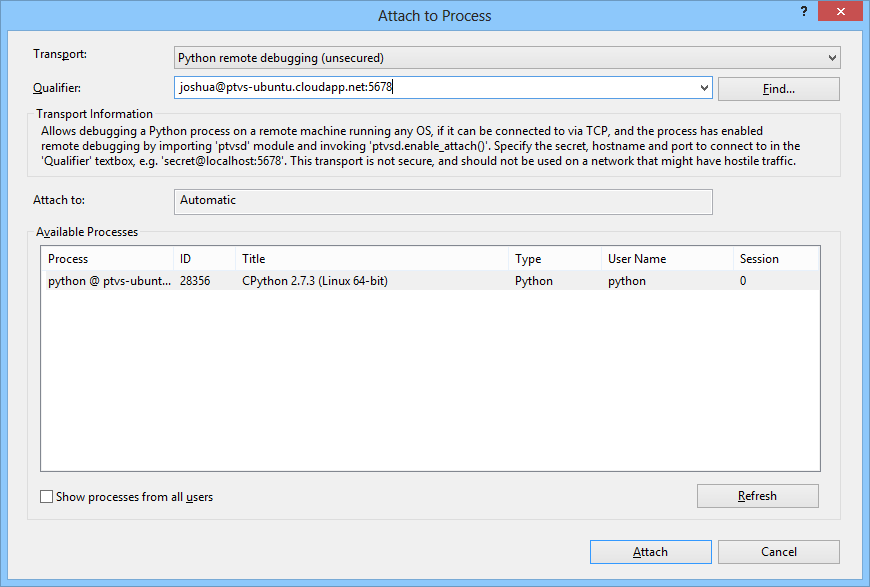
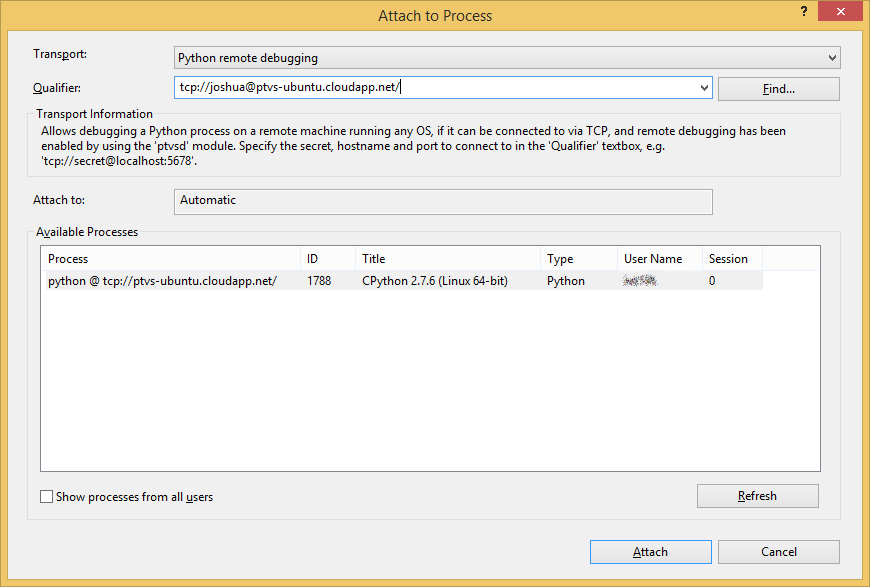
Add documentation for Azure remote debugging.
Update documentation for regular remote debugging.

diff --git a/Python/Docs/User/Features Azure Remote Debugging.md b/Python/Docs/User/Features Azure Remote Debugging.md
@@ -1,0 +1,50 @@
+Remote Debugging on Microsoft Azure
+===================================
+
+Python Tools has special support for remote debugging of code running on Microsoft Azure Web Sites. Unlike simple remote debugging, the target machine is not directly accessible over TCP in this scenario, but PTVS comes with a WebSocket proxy for the debugging protocol that exposes the debugger protocol via HTTP. When you create a new Microsoft Azure project, the proxy is fully configured for you in an automatically generated web.debug.config, and will be enabled on the web site if you publish your project in the "Debug" configuration by following [wiki:"these steps" Features%20Web%20Project#publishing-to-microsoft-azure].
+
+Since the Azure remote debugging uses web sockets, it must be enabled for your web site in the management portal. This setting can be found on the web site management page, on the "Configure" tab - don't forget to click "Save" after changing it:
+
+![Enabling web sockets in Azure portal](Images/AzureRemoteDebuggingEnableWebSockets.png)
+
+Once your project is properly deployed and web sockets are enabled, you can attach to the web site from Server Explorer. If you do not have the Server Explorer window open, you can open it via <span class="menu">View</span> → <span class="menu">Server Explorer</span>. Then, locate your web site under Microsoft Azure → Web Sites, and right-click on it. If it is running, and your project has been deployed to it using the Debug configuration, you should see the "Attach Debugger (Python)" command in the context menu:
+
+![Attaching to Azure Web Site](Images/AzureRemoteDebuggingWebSiteAttach.png)
+
+Note that on Visual Studio Professional and above, you will see two "Attach Debugger" commands - the default one with no qualifiers is used to debug .NET applications running under IIS, and is only useful if you co-host .NET code alongside your Python app. To attach to your Python app, you need to use the "Attach Debugger (Python)" command. If you do not see that command in the context menu for your site (i.e. you only see "Attach Debugger", or you see neither), then one of the following applies:
+
+* You do not have Visual Studio 2013:
+ * Server Explorer functionality is not available on your version of Visual Studio. You will have to use attach via Attach to Process dialog as described [below](#attaching-without-server-explorer).
+* You do not have Visual Studio 2013 Update 2 or later installed:
+ * Download and install [Update 2](http://www.microsoft.com/en-us/download/details.aspx?id=42023). 
+* The project is not opened in Solution Explorer:
+ * Open the project that you're trying to debug via File → Open → Project/Solution.
+* The web site is not running (i.e. stopped - this can be seen from its icon):
+ * Start the web site by right-clicking on it in Server Explorer and selecting "Start Web Site" in the context menu.
+* The project was not deployed in the "Debug" configuration:
+ * Re-deploy the project in "Debug" configuration as described [wiki:"here" Features%20Web%20Project#publishing-to-microsoft-azure].
+* web.debug.config was modified to disable the debug proxy.
+ * Restore the original web.debug.config. The easiest way to do so is to delete it, which will cause it to be recreated with default settings on the next publish.
+
+If the attach has completed successfully, Visual Studio should switch to debug window profile, and the title bar should say "(Running)" after the opened project name. You should also be seeing the debugger toolbar, which indicates the process being debugged - for a Microsoft Azure web site, it should include a corresponding wss:// URI:
+
+![Debugging Azure Web Site](Images/AzureRemoteDebuggingAttached.png)
+
+Once attached, the debugging experience is mostly the same as for regular remote debugging. However, there are some constraints placed by the execution environment. In particular, IIS web server that handles incoming requests and delegates them to Python code via FastCGI has a timeout for request handling, which defaults to 90 seconds. If request handling takes longer than that (for example, because of the process being paused at a breakpoint), IIS will terminate the process, which will immediately end your debugging session. 
+
+
+## Attaching without Server Explorer
+
+It is also possible to attach to a Microsoft Azure web site directly from the Attach to Process dialog, similar to regular remote debugging. A brief guide on how to do so can be found on the WebSocket proxy info page, which can be found on your web site under /ptvsd - this can also be used to verify that the proxy is up and running:
+
+![Azure remote debugging proxy information page](Images/AzureRemoteDebuggingProxyInfoPage.png)
+
+First of all, you will need to determine the auto-generated ptvsd secret for your website - it is defined in web.debug.config in your project, and is regenerated every time the project is published (unless the comment at the top of web.debug.config is removed to suppress its regeneration). You may need to enable "Show All Files" in Solution Explorer to locate web.debug.config, if you haven't previously included it into your project. Once you open the file, look for an appSetting named "WSGI_PTVSD_SECRET", and note its value:
+
+![Determining the debugger endpoint in an Azure Web project](Images/AzureRemoteDebuggingSecret.png)
+
+Once you know the secret, you can construct the debugger proxy endpoint URI. For example, given a web site at **http://ptvsdemo.azurewebsites.net**, and the secret as specified on the screenshot above, the proxy is at **wss**://**hp1itiji141**@ptvsdemo.azurewebsites.net/**ptvsd**.  
+
+Now, to attach to the debugger using that URL, open Debug → Attach to Process, select "Python remote debugging" in Transport dropdown, enter the **wss://** URL into the Qualifier textbox, and press Enter. If PTVS can successfully connect to the web site, it will show a single python.exe process in the process list below the qualifier. Press Enter or click "Attach" to attach to that process.
+
+![Using Attach to Process dialog to attach to an Azure web site](Images/AzureRemoteDebuggingManualAttach.png)

diff --git a/Python/Docs/User/Features Remote Debugging.md b/Python/Docs/User/Features Remote Debugging.md
@@ -67,7 +67,7 @@ The most common scenario for remote debugging is to set a breakpoint in the sour
 
 ![Setting a breakpoint](Images/RemoteDebuggingBreakpointSet.png)
 
-Attaching is done using <span class="menu">Debug</span> → <span class="menu">Attach to Process</span> menu command, which opens the “Attach to Process” dialog. The first thing to do in it is to open the “Transport” combo box, and change selection to “Python remote debugging (unsecured)”: 
+Attaching is done using <span class="menu">Debug</span> → <span class="menu">Attach to Process</span> menu command, which opens the “Attach to Process” dialog. The first thing to do in it is to open the “Transport” combo box, and change selection to “Python remote debugging”: 
 
 ![Choosing the remote debugging transport](Images/RemoteDebuggingTransport.png)
 
@@ -105,9 +105,9 @@ After you have the certificate and the private key files generated and registere
 ptvsd.enable_attach(secret = 'joshua', certfile = 'joshua.cer', keyfile = 'joshua.key')
 ```
 
-The attach process is exactly the same as described earlier, except that, instead of “Python remote debugging (unsecured)” transport, you need to use “Python remote debugging (SSL)”: 
+The attach process is exactly the same as described earlier, except that, instead of using the **tcp://** scheme in the Qualifier, you use **tcps://**: 
 
-![Choosing the remote debugging transport with SSL](Images/RemoteDebuggingTransportSSL.png)
+![Choosing the remote debugging transport with SSL](Images/RemoteDebuggingQualifierSSL.png)
 
 If you did not add the certificate to the CA root store, you will get a warning message: 
 

diff --git a/Python/Docs/User/Features Web Project.md b/Python/Docs/User/Features Web Project.md
@@ -144,6 +144,10 @@ With these tools installed, Python projects will display a Publish command in th
 The "Publish" command will deploy your site to an Azure Web Site.
 After selecting the command, a wizard will walk you through creating a web site or importing publish settings, previewing modified files, and publishing to a remote server.
 
+If you plan on debugging your published project directly on Microsoft Azure servers by using Python remote debugging, you need to publish the site in "Debug" configuration. This setting is separate from the current active solution configuration, and always defaults to "Release". To change it, open the "Settings" tab, and use the "Configuration" combo box in the publish wizard:
+
+![Changing the publish configuration](Images/WebPublishConfig.png)
+
 See the [documentation on Azure.com](http://azure.microsoft.com/en-us/documentation/services/web-sites/#python) for more information on creating and deploying to Web Sites.
 
 ![Convert to Windows Azure Cloud Service Project command](Images/WebConvertMenu.png)

diff --git a/Common/Docs/HowTo.md b/Common/Docs/HowTo.md
@@ -140,6 +140,8 @@ Requirements are:
 * Pygments (`pip install pygments`)
 * Pillow with JPEG and PNG codecs (`pip install Pillow`)
 
+You can use "Install from requirements.txt" (in the context menu of the Python environment node in Solution Explorer) to install those.
+
 The first time the script is run, it will generate a file `maps.cache`, which contains all of the mappings used for the `src` and `file` links. This file should be deleted when source files are added, removed, moved or renamed, but will significantly speed up later refresh times.
 
 Uploading to CodePlex

diff --git a/Python/Docs/User/Documentation.md b/Python/Docs/User/Documentation.md
@@ -29,6 +29,7 @@ Features in Depth
  * [wiki:"Debugging without a Project" Features Debugging#debugging-without-a-project]
  * [wiki:"The Debug Interactive Window" Features Debugging#the-debug-interactive-window]
  * [wiki:"Remote Debugging for Windows, Linux and OS X" Features Remote Debugging]
+ * [wiki:"Remote Debugging for Microsoft Azure Web Sites" Features Azure Remote Debugging]
  * [wiki:"Python/C++ Mixed-Mode Debugging" Features Mixed-mode Debugging]
 * [wiki:"Profiling" Features Profiling]
 * [wiki:"Projects" Features Projects]
